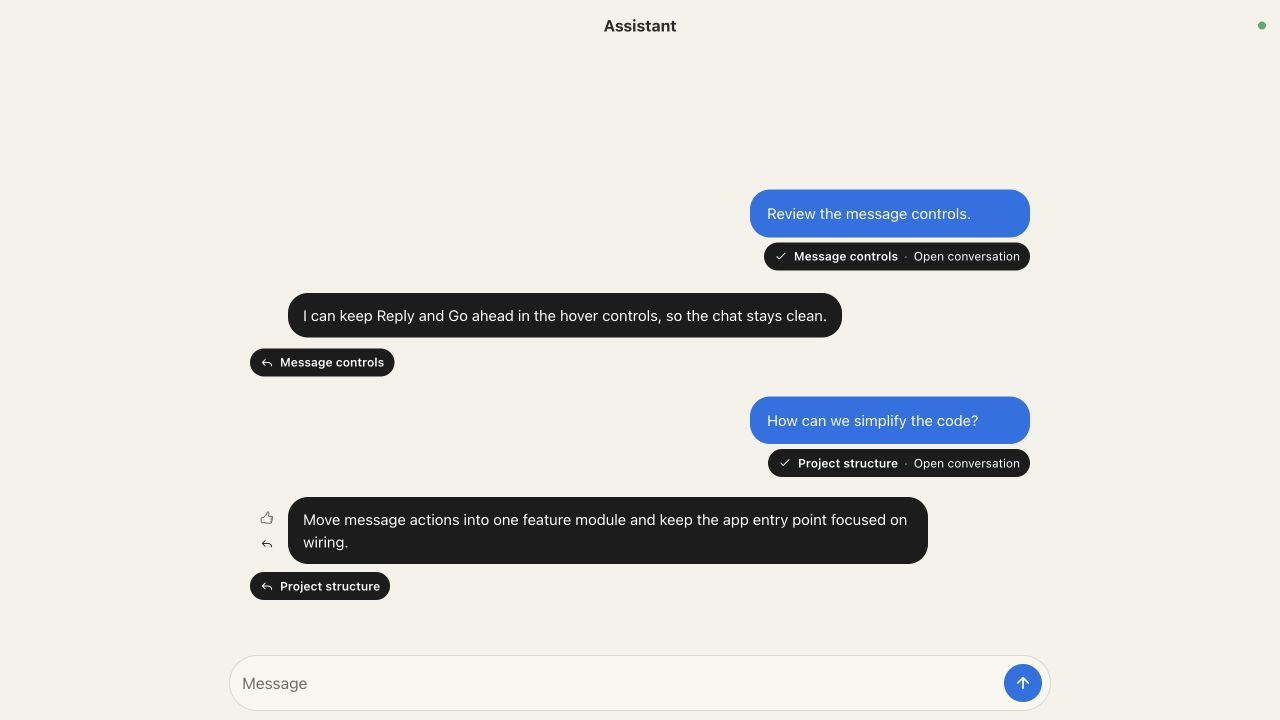
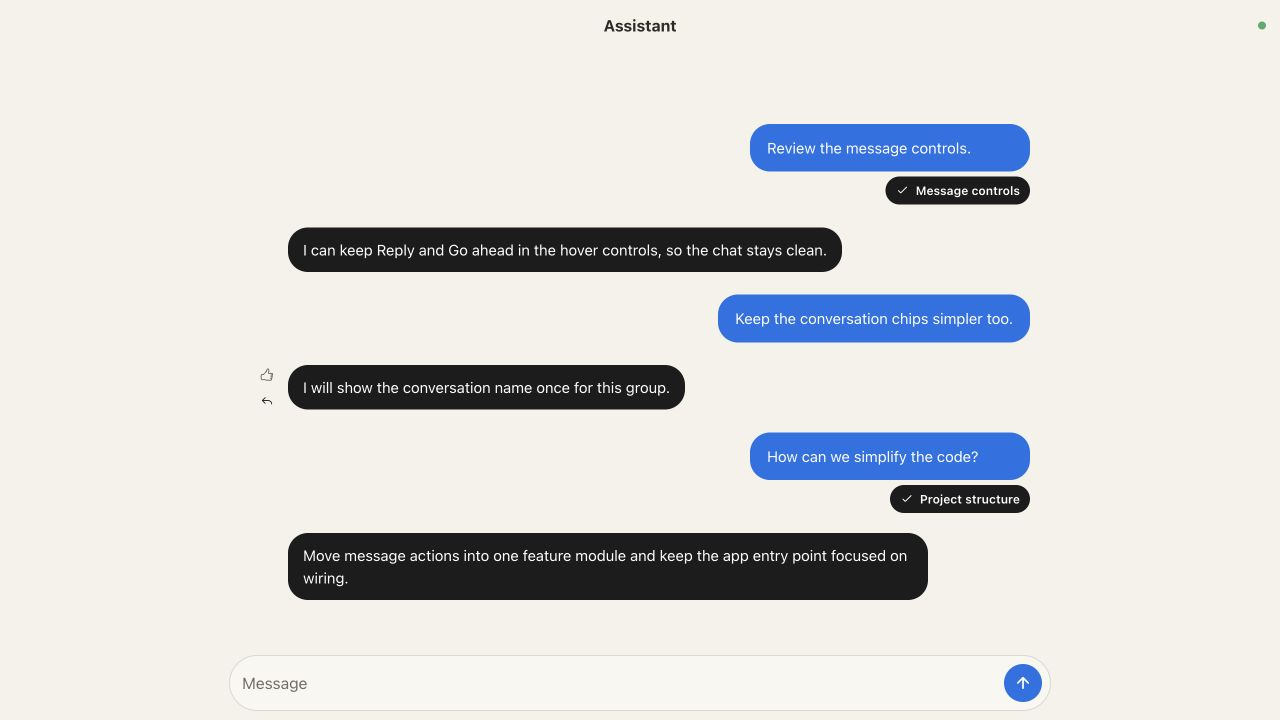
Show assistant conversation chips only when the destination changes

Changed region(s): [[0.1875, 0.1528, 0.8125, 0.5806], [0.1875, 0.55, 0.8125, 0.8556]]

diff --git a/tools/assistant/web/app.js b/tools/assistant/web/app.js
@@ -29,26 +29,27 @@ function messageStatus(message, entry) {
   if (latest) return "working";
   return message.status === "routed" ? "queued" : message.status;
 }
-function activityPill(message, entry, className = "") {
+function activityPill(message, entry, className = "", showConversation = true) {
   const progress = state.liveProgress[message.id] ?? entry?.updates.filter((update) => update.kind === "progress" && (update.sourceId || entry.sourceId) === message.id).at(-1)?.text;
   const status = messageStatus(message, entry);
   const title = entry?.sessionId ? entry.title : status === "failed" ? "Routing failed" : "Choosing a conversation…";
   const detail = ({ routing: "", queued: "Queued", working: progress?.replace(/\s+/g, " ").trim() || "Working…",
-    ready: "Open conversation", failed: entry?.sessionId ? "Failed · Open conversation" : "", interrupted: "Continue" })[status] || "";
+    ready: "", failed: entry?.sessionId ? "Failed" : "", interrupted: "Continue" })[status] || "";
+  if (!showConversation && status === "ready") return "";
   const symbol = ["routing", "queued", "working"].includes(status) ? '<i class="spinner"></i>'
     : status === "ready" ? icon("check", 14) : status === "interrupted" ? "⏸" : "⚠";
   const action = status === "interrupted" && entry?.sessionId ? `data-action="resume" data-entry="${escapeHTML(entry.id)}"`
     : entry?.sessionId ? `data-action="open" data-session="${escapeHTML(entry.sessionId)}"` : "disabled";
   return `<button type="button" class="activity-pill ${className}" data-source="${escapeHTML(message.id)}" data-status="${escapeHTML(status)}" ${action}
-    aria-label="${escapeHTML(`${title}${detail ? `, ${detail}` : ""}`)}" title="${escapeHTML(title)}"><span class="pill-symbol" aria-hidden="true">${symbol}</span><strong class="pill-title">${escapeHTML(title)}</strong>${detail ? `<span class="pill-detail">${escapeHTML(detail)}</span>` : ""}</button>`;
+    aria-label="${escapeHTML(`${title}${detail ? `, ${detail}` : ""}`)}" title="${escapeHTML(title)}"><span class="pill-symbol" aria-hidden="true">${symbol}</span>${showConversation ? `<strong class="pill-title">${escapeHTML(title)}</strong>` : ""}${detail ? `<span class="pill-detail">${escapeHTML(detail)}</span>` : ""}</button>`;
 }
-function homeRequest(message, entry) {
+function homeRequest(message, entry, showConversation) {
   const request = `<button type="button" class="message-bubble user-bubble home-entry" ${entry?.sessionId ? `data-action="open" data-session="${escapeHTML(entry.sessionId)}"` : "disabled"}>${actions.quote(actions.replyTarget(message.replyToId), "message-context user-context")}<span class="entry-copy">${escapeHTML(message.text)}</span></button>`;
-  return `<section class="home-exchange"><div class="message-row user-row home-requests"><div class="replyable replyable-user">${actions.requestAction(message, entry?.sessionId)}${request}</div>${activityPill(message, entry)}</div></section>`;
+  return `<section class="home-exchange"><div class="message-row user-row home-requests"><div class="replyable replyable-user">${actions.requestAction(message, entry?.sessionId)}${request}</div>${activityPill(message, entry, "", showConversation)}</div></section>`;
 }
-function homeReply(update, entry, source) {
+function homeReply(update, entry, source, showConversation) {
   const reaction = actions.reactionTo(update.id);
-  const sourcePill = reaction ? activityPill(reaction, entry, "reply-source-pill") : entry.sessionId ? `<button type="button" class="activity-pill reply-source-pill" data-action="open" data-session="${escapeHTML(entry.sessionId)}" aria-label="Open ${escapeHTML(entry.title)} conversation" title="Open conversation"><span class="pill-symbol" aria-hidden="true">${icon("reply", 14)}</span><strong class="pill-title">${escapeHTML(entry.title)}</strong></button>` : "";
+  const sourcePill = reaction ? activityPill(reaction, entry, "reply-source-pill", showConversation) : showConversation && entry.sessionId ? `<button type="button" class="activity-pill reply-source-pill" data-action="open" data-session="${escapeHTML(entry.sessionId)}" aria-label="Open ${escapeHTML(entry.title)} conversation" title="${escapeHTML(entry.title)}"><span class="pill-symbol" aria-hidden="true">${icon("reply", 14)}</span><strong class="pill-title">${escapeHTML(entry.title)}</strong></button>` : "";
   const context = source.reaction ? actions.replyTarget(source.replyToId) : { role: "You", text: source.text };
   return `<section class="home-exchange" data-update="${escapeHTML(update.id)}"><div class="message-row assistant-row home-updates"><div class="replyable replyable-assistant">${actions.replyActions(update.id, entry.sessionId)}<button class="message-bubble assistant-bubble home-update ${update.quoteSource ? "with-context" : ""}" data-action="open" data-session="${escapeHTML(entry.sessionId || "")}" ${entry.sessionId ? "" : "disabled"}>${update.quoteSource ? actions.quote(context, "message-context") : ""}<span class="message-text markdown-content">${renderMarkdown(update.text)}</span></button></div>${sourcePill}</div></section>`;
 }
@@ -57,14 +58,23 @@ function home() {
   const edited = new Set(state.data.messages.map((message) => message.editOfId).filter(Boolean));
   const messages = new Map(state.data.messages.map((message) => [message.id, message]));
   const entries = new Map(state.data.entries.map((entry) => [entry.id, entry]));
-  const timeline = state.data.messages.filter((message) => !message.reaction && !edited.has(message.id)).map((message) => ({ createdAt: message.createdAt, html: homeRequest(message, entries.get(message.entryId)) }));
+  const timeline = state.data.messages.filter((message) => !message.reaction && !edited.has(message.id)).map((message) => {
+    const entry = entries.get(message.entryId);
+    return { createdAt: message.createdAt, sessionId: entry?.sessionId, render: (showConversation) => homeRequest(message, entry, showConversation) };
+  });
   for (const entry of state.data.entries) for (const update of entry.updates) {
     if (update.kind === "progress") continue;
     const source = messages.get(update.sourceId || entry.sourceId);
-    if (source && !edited.has(source.id)) timeline.push({ createdAt: update.createdAt, html: homeReply(update, entry, source) });
+    if (source && !edited.has(source.id)) timeline.push({ createdAt: update.createdAt, sessionId: entry.sessionId, render: (showConversation) => homeReply(update, entry, source, showConversation) });
   }
   timeline.sort((a, b) => a.createdAt.localeCompare(b.createdAt));
-  return `<main class="home-scroll scroll-area"><div class="home-content">${timeline.map((item) => item.html).join("")}</div></main>`;
+  let previousSession;
+  const content = timeline.map((item) => {
+    const showConversation = !item.sessionId || item.sessionId !== previousSession;
+    previousSession = item.sessionId;
+    return item.render(showConversation);
+  }).join("");
+  return `<main class="home-scroll scroll-area"><div class="home-content">${content}</div></main>`;
 }
 function nearBottom(scroll) { return scroll.scrollHeight - scroll.scrollTop - scroll.clientHeight < 40; }
 function homeBackButton() {

diff --git a/tools/assistant/web/app.css b/tools/assistant/web/app.css
@@ -203,7 +203,7 @@ button:disabled { opacity: .45; cursor: not-allowed !important; }
 .pill-symbol .spinner { width: 11px; height: 11px; }
 .pill-title, .pill-detail { min-width: 0; overflow: hidden; white-space: nowrap; text-overflow: ellipsis; }
 .pill-title { max-width: 220px; font-weight: 600; }
-.pill-detail::before { content: "·"; margin-right: 6px; opacity: .65; }
+.pill-title + .pill-detail::before { content: "·"; margin-right: 6px; opacity: .65; }
 .home-update { border: 0; text-align: left; cursor: pointer; font-size: 15px; line-height: 1.5; }
 .home-update:hover { filter: brightness(1.12); }
 .home-update:disabled { cursor: default; opacity: 1; }
